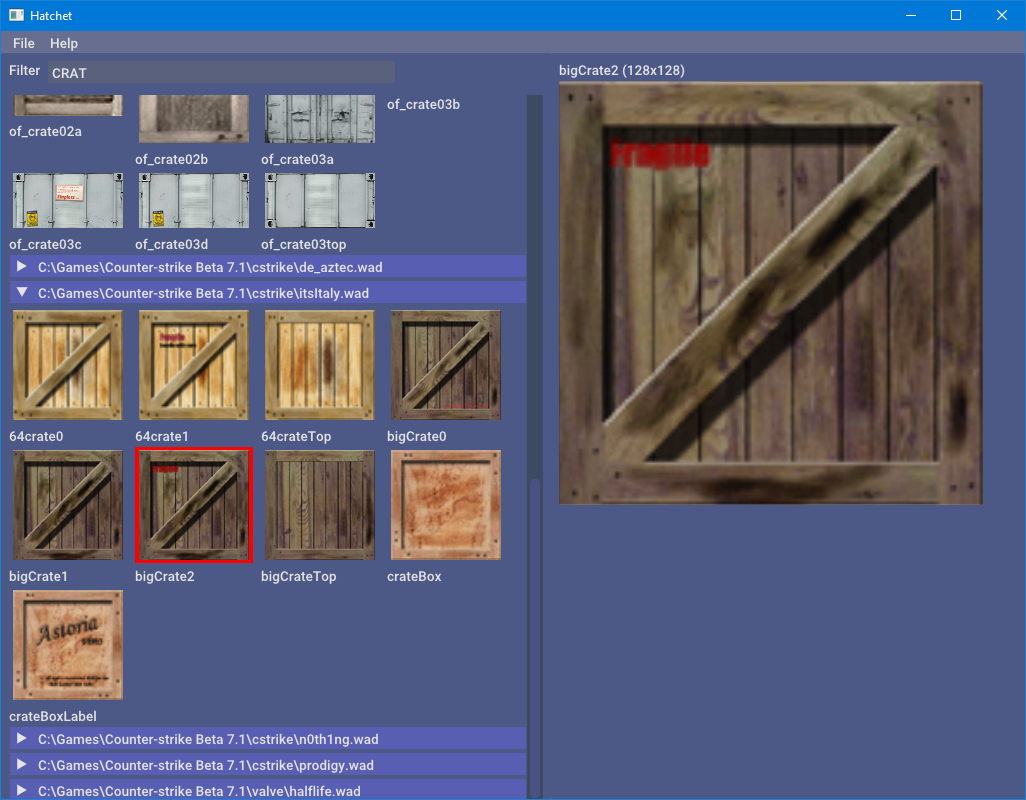
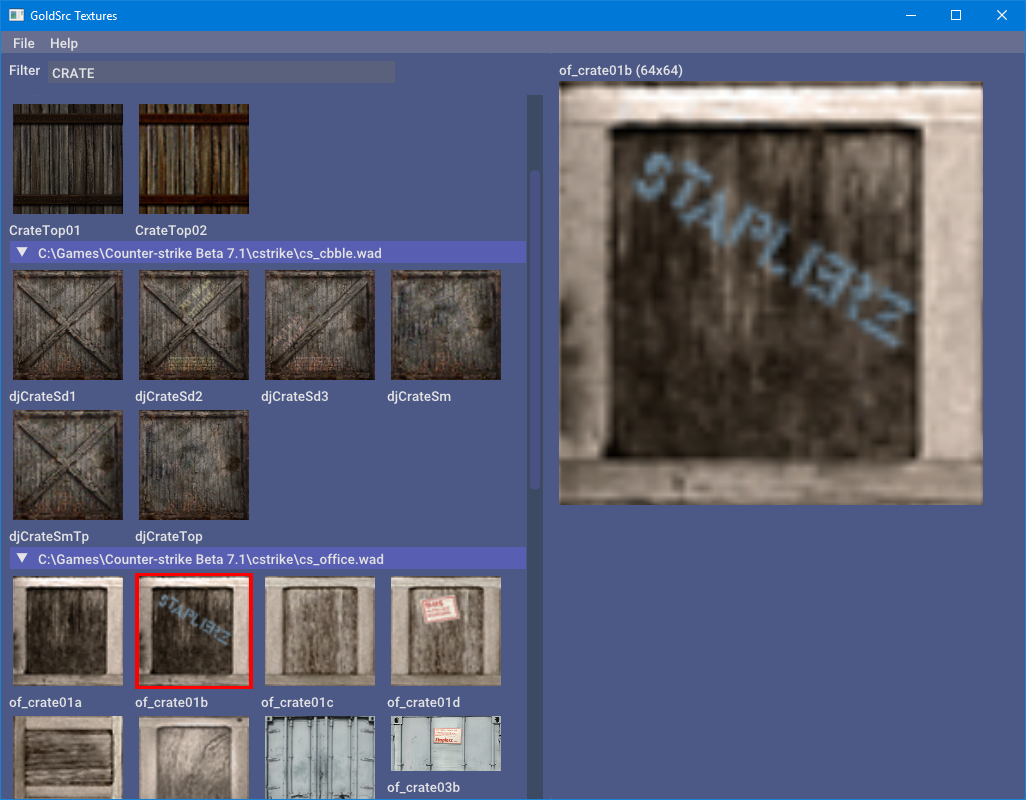
Update of titlebar name and screenshot

diff --git a/src/main.cpp b/src/main.cpp
@@ -22,7 +22,7 @@ int main(int argc, char *argv[])
     glfwWindowHint(GLFW_OPENGL_FORWARD_COMPAT, GL_TRUE);
     glfwWindowHint(GLFW_OPENGL_PROFILE, GLFW_OPENGL_CORE_PROFILE);
 
-    GLFWwindow *window = glfwCreateWindow(1024, 768, "Hatchet", NULL, NULL);
+    GLFWwindow *window = glfwCreateWindow(1024, 768, "GoldSrc Textures", NULL, NULL);
     if (window == 0)
     {
         glfwTerminate();
